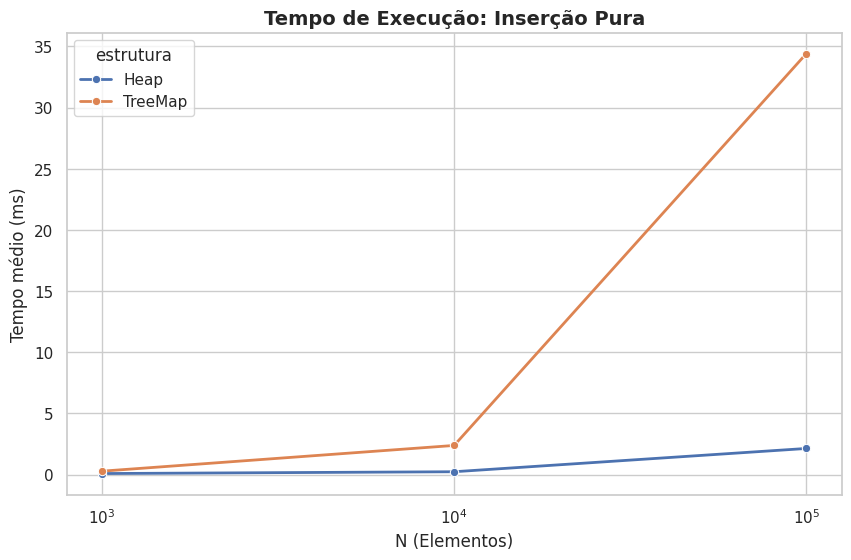
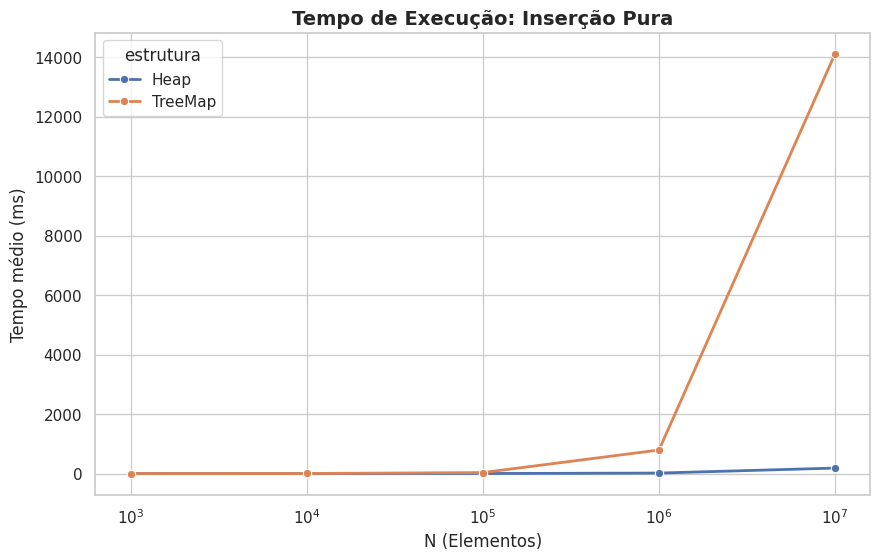
fix: aumento de repetições gerais e do peek puro

diff --git a/src/main/java/tests/Runner.java b/src/main/java/tests/Runner.java
@@ -9,7 +9,7 @@ public class Runner{
     // Configuração dos experimentos
 
     // Tamanhos de entrada a serem testados
-    static final int[] TAMANHOS = { 1_000, 10_000, 100_000 };
+    static final int[] TAMANHOS = { 1_000, 10_000, 100_000, 1_000_000, 10_000_000 };
 
     //Repetições de warm-up (sem medição) 
     static final int WARMUP = 5;
@@ -21,7 +21,7 @@ public class Runner{
      * Repetições internas do peek (operação O(1) muito rápida;
      * repetir muitas vezes reduz ruído estatístico).
      */
-    static final int REPETICOES_PEEK = 100_000;
+    static final int REPETICOES_PEEK = 10_000_000;
 
     public static void main(String[] args) {
 
